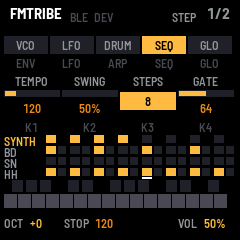
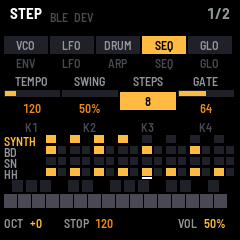
Header: the page name in place of FMTRIBE
The header's left now shows the page (VCF VCA, STEP, MIDI...) in the
large type, with BLE and DEV beside it and x/y at the right, so nothing
crowds the labels. Manual, quickstart and screenshots updated.

Claude-Session: https://claude.ai/code/session_017ui7VjCWMFsYUM5oLQjnQg

Changed region(s): [[0.0292, 0.0292, 0.4667, 0.1167], [0.7, 0.0292, 0.8167, 0.1167]]

diff --git a/app/app.c b/app/app.c
@@ -1104,14 +1104,12 @@ static void draw(void)
         int32_t x = cv_text(10, 6, &FONT_B, ui.msg[0], C_WHITE);
         cv_text(x + 8, 6, &FONT_B, ui.msg[1], C_HI);
     } else {
-        int32_t x = cv_text(10, 6, &FONT_B, APP_NAME, C_WHITE);
+        int32_t x = cv_text(10, 6, &FONT_B, PAGE[ui.page].name, C_WHITE);   /* the page, where the name was */
         if (FM1B_BLE)                        /* Bluetooth: grey while it waits, lit while a computer is connected */
             x = cv_text(x + 8, 10, &FONT_XS, "BLE", plat_ble_connected() ? C_HI : C_DIM);
         if (FM1B_BLE_CENTRAL)                /* a Bluetooth MIDI device: lit while connected */
             cv_text(x + 6, 10, &FONT_XS, "DEV", plat_ble_device() == BLE_DEV_READY ? C_HI : C_DIM);
-        if (note < 0) {                      /* the page's name, beside its place on its button */
-            cv_text(196 - text_w(&FONT_XS, PAGE[ui.page].name), 10, &FONT_XS, PAGE[ui.page].name, C_GRAY);
-        } else {                             /* the note, and the last key's velocity and pressure */
+        if (note >= 0) {                     /* the note, and the last key's velocity and pressure */
             int32_t x;
             note_name(note, t);
             x = 196 - text_w(&FONT_B, t);

diff --git a/app/docs/MANUAL.md b/app/docs/MANUAL.md
@@ -46,7 +46,7 @@ can recover an FM-1 that doesn't start, too. For details, see felucca-bsp's `too
 
 | Part | What it shows |
 | --- | --- |
-| Header | The name, and BLE, which lights while a computer or tablet is connected over Bluetooth. At the right, the page's name and which page of its button you're on, such as VCF VCA 2/2. While you play a key, the note instead. After a change, a message shows here for a moment, such as CUTOFF 100. |
+| Header | The page you're on, such as VCF VCA, and BLE and DEV, which light while a computer or a Bluetooth MIDI device is connected. At the right, which page of its button it is, such as 2/2, and while you play a key, the note. After a change, a message shows here for a moment, such as CUTOFF 100. |
 | Tabs | The pages' buttons: VCO (ENV), LFO, DRUM (ARP), SEQ and GLO. The one you're on is lit, and so is its button. |
 | K1 to K4 | What the four knobs do on this page. A knob shows a bar and its value; a switch shows its position. Each lights for a moment as you turn it. |
 | Below the knobs | On the synth pages, the VCO's WAVE (SELECT) and, on LFO, the LFO's WAVE (ALGO). On DRUMS, the pads. On STEP, the pattern, a row a part. On EDIT, the synth's steps as a piano roll. |

diff --git a/CLAUDE.md b/CLAUDE.md
@@ -43,7 +43,7 @@ writes WAVs); `app/tests/sound.txt` covers the panel and MIDI map. Constants mar
 release ~12 ms, SN tone/noise balance) wait for the prototype comparison. Known gap: self-oscillation level rises
 ~2.5 dB from 80 Hz to 18 kHz; the recordings suggest it falls ~6 dB from 200 Hz to 3.5 kHz.
 UI (0.4): pages on buttons (app.c PAGE[]), after the monotribe's panel left to right: a button shows its first page,
-pressed again its next; K1–K4 edit the page; the header's right shows the page name and x/y. ENV VCO 1/2 (NOISE
+pressed again its next; K1–K4 edit the page; the header shows the page name (left, in place of the app name) and x/y (right). ENV VCO 1/2 (NOISE
 RANGE; RANGE WIDE/NARROW/KEY stored, only KEY plays yet) and VCF VCA 2/2 (CUTOFF PEAK LEVEL EG); LFO (RATE INT TARGET
 MODE); ARP DRUMS (RHYTHM, BD/SN/HH DECAY; F#-G#-A# black keys are pads); SEQ STEP 1/2 (TEMPO SWING STEPS GATE) and
 EDIT 2/2 (STEP NOTE GATE ON, piano roll); GLO MIDI 1/3 (SYNTH CH DRUM CH SYNC CLOCK OUT), GLOBAL 2/3 (BLE MIDI, KEY

diff --git a/app/site/quickstart.md b/app/site/quickstart.md
@@ -21,8 +21,8 @@ To go back to M-VAVE's firmware, or to another one, open the same installer and 
 
 ## 3. Play
 
-Press a page button, then turn K1 to K4 to edit that page. Press the button again for its next page; the top right of
-the screen shows which one, such as VCF VCA 2/2.
+Press a page button, then turn K1 to K4 to edit that page. Press the button again for its next page; the header
+shows which one, such as VCF VCA 2/2.
 
 | Page (button) | K1 | K2 | K3 | K4 |
 | --- | --- | --- | --- | --- |
